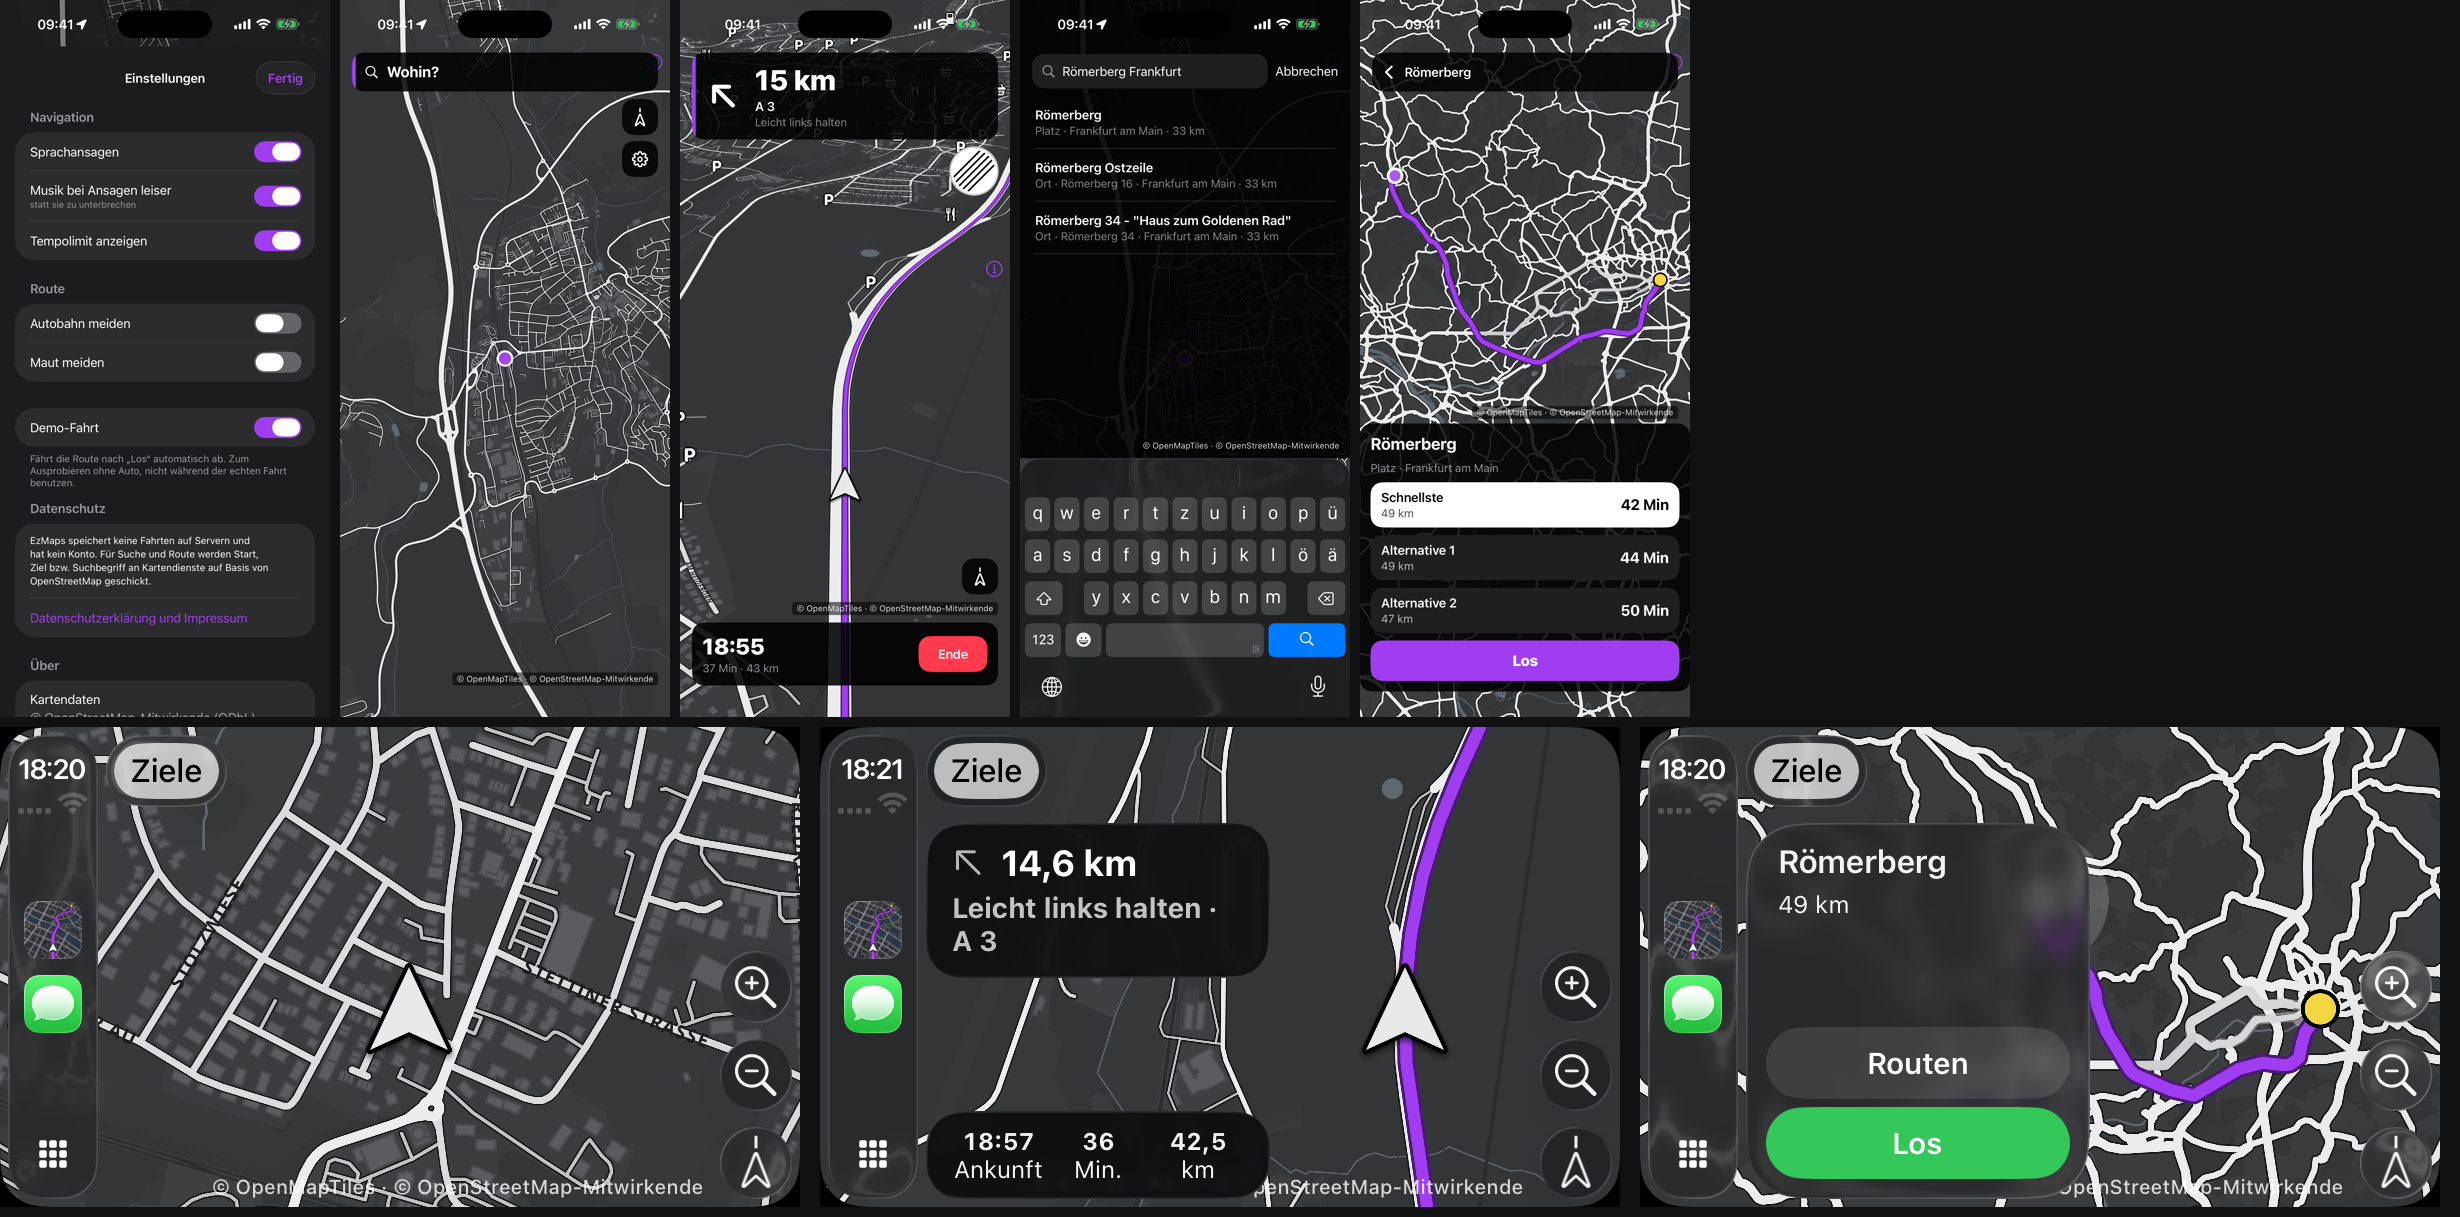
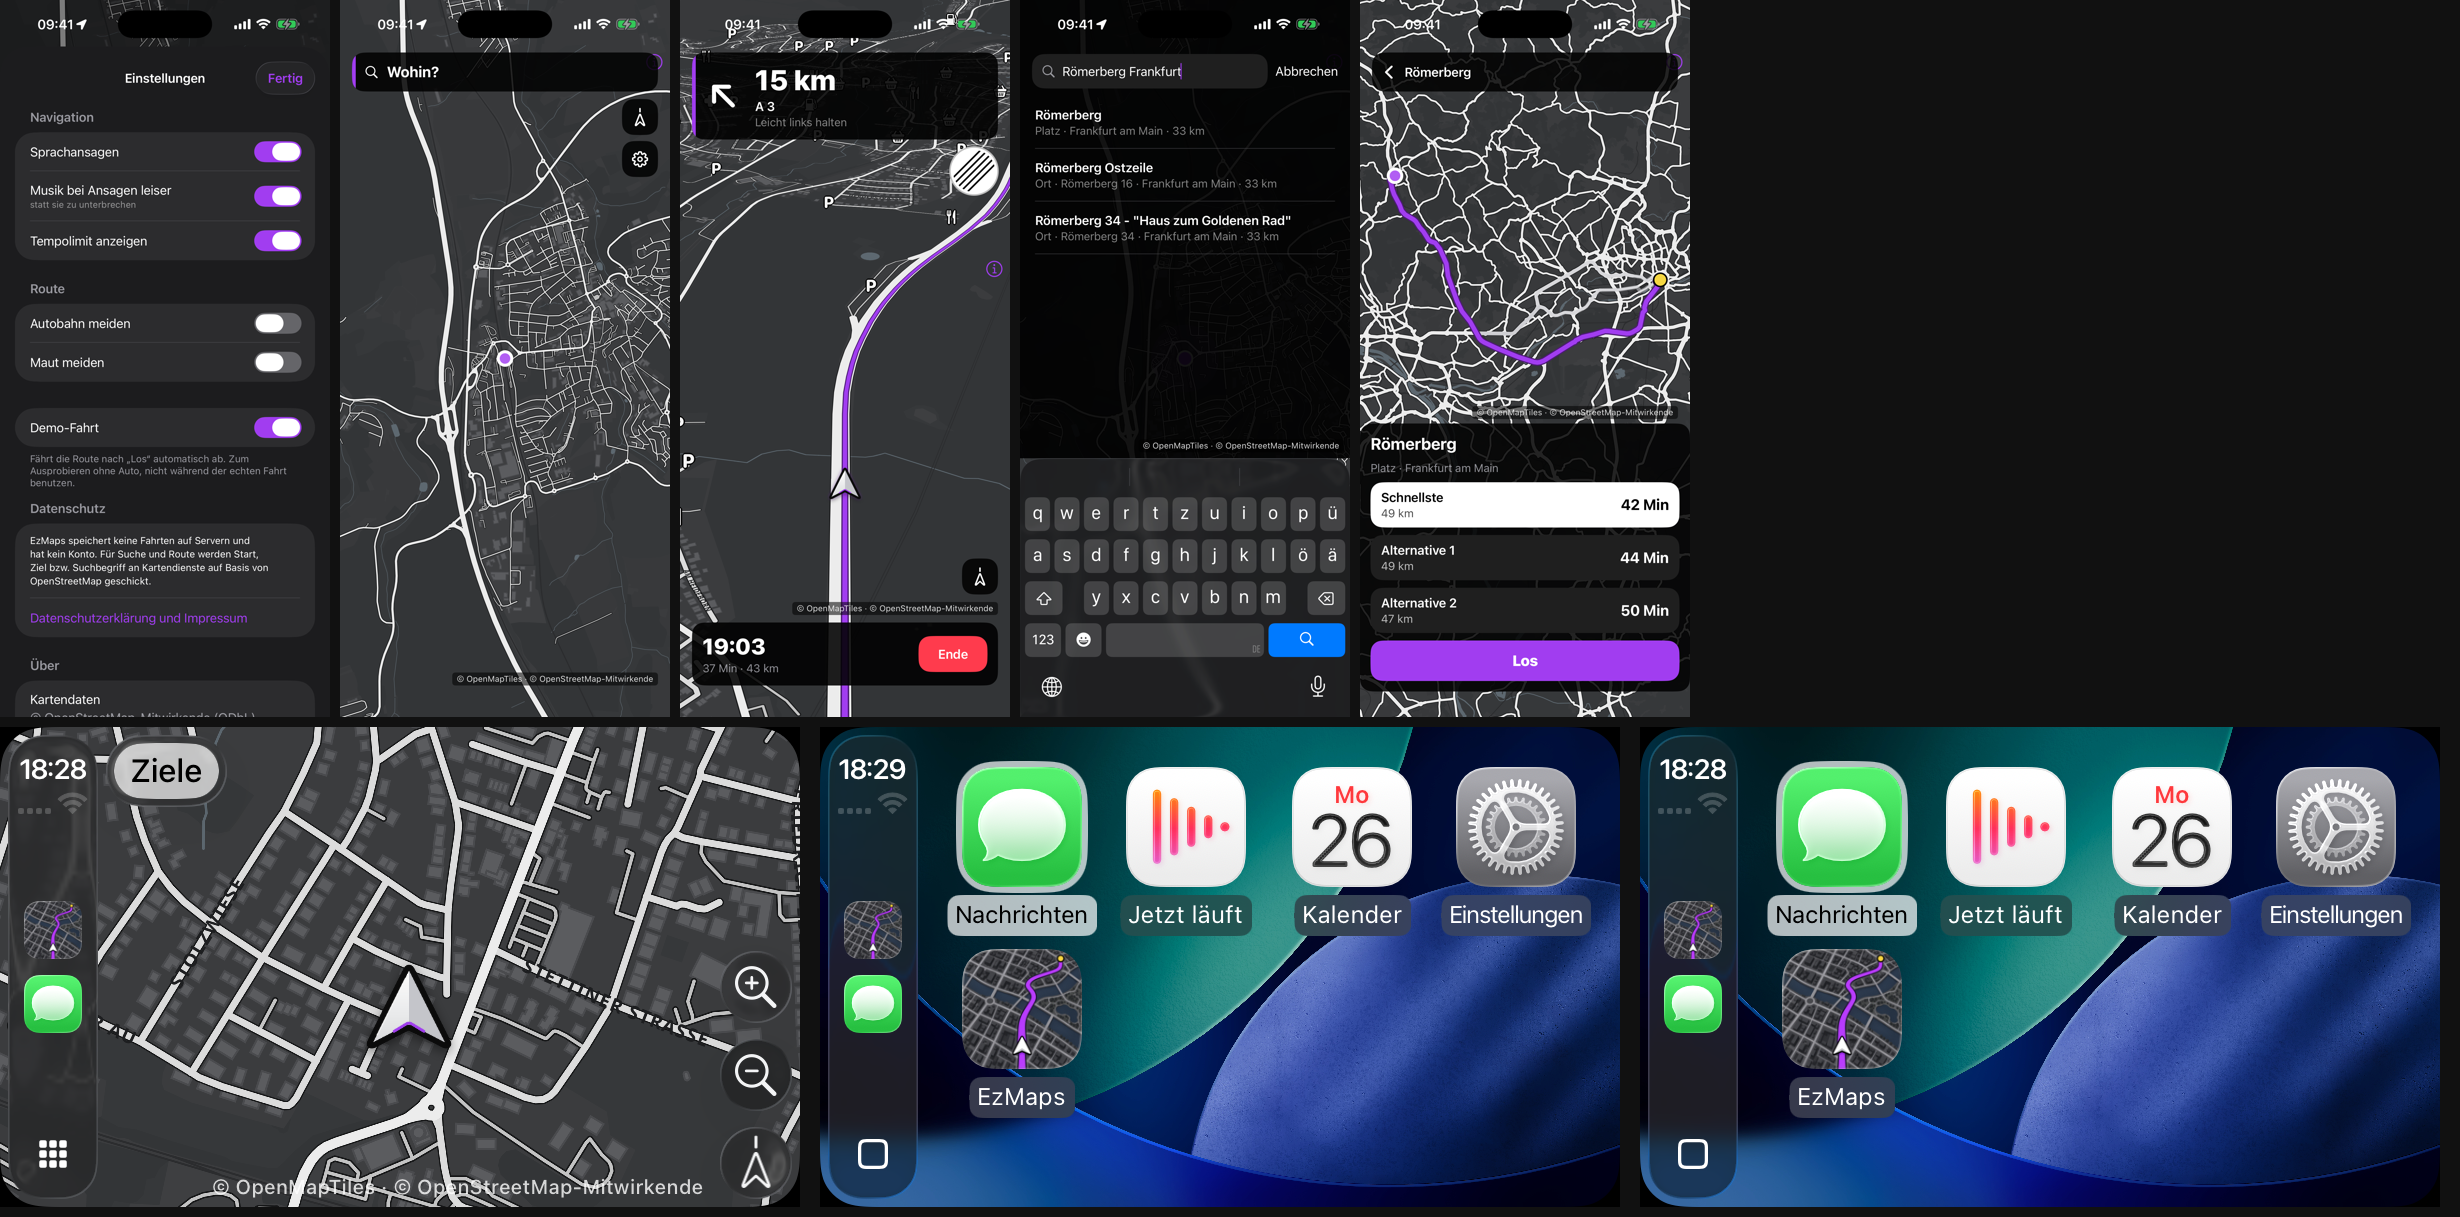
GM-026: CarPlay-Klick robuster, (i) in der Fahrt aus

diff --git a/App/FollowCamera.swift b/App/FollowCamera.swift
@@ -55,6 +55,7 @@ final class FollowCamera: NSObject {
         map?.showsUserLocation = false
         map?.automaticallyAdjustsContentInset = false
         map?.compassView.isHidden = true // GM-025: Kompass stört in der Fahrt
+        map?.attributionButton.isHidden = true // Hinweis steht als Text darunter (GM-026)
     }
 
     func stop() {
@@ -64,6 +65,7 @@ final class FollowCamera: NSObject {
         map?.showsUserLocation = true
         map?.contentInset = .zero
         map?.compassView.isHidden = false
+        map?.attributionButton.isHidden = false
     }
 
     func zoom(by step: Double) {
